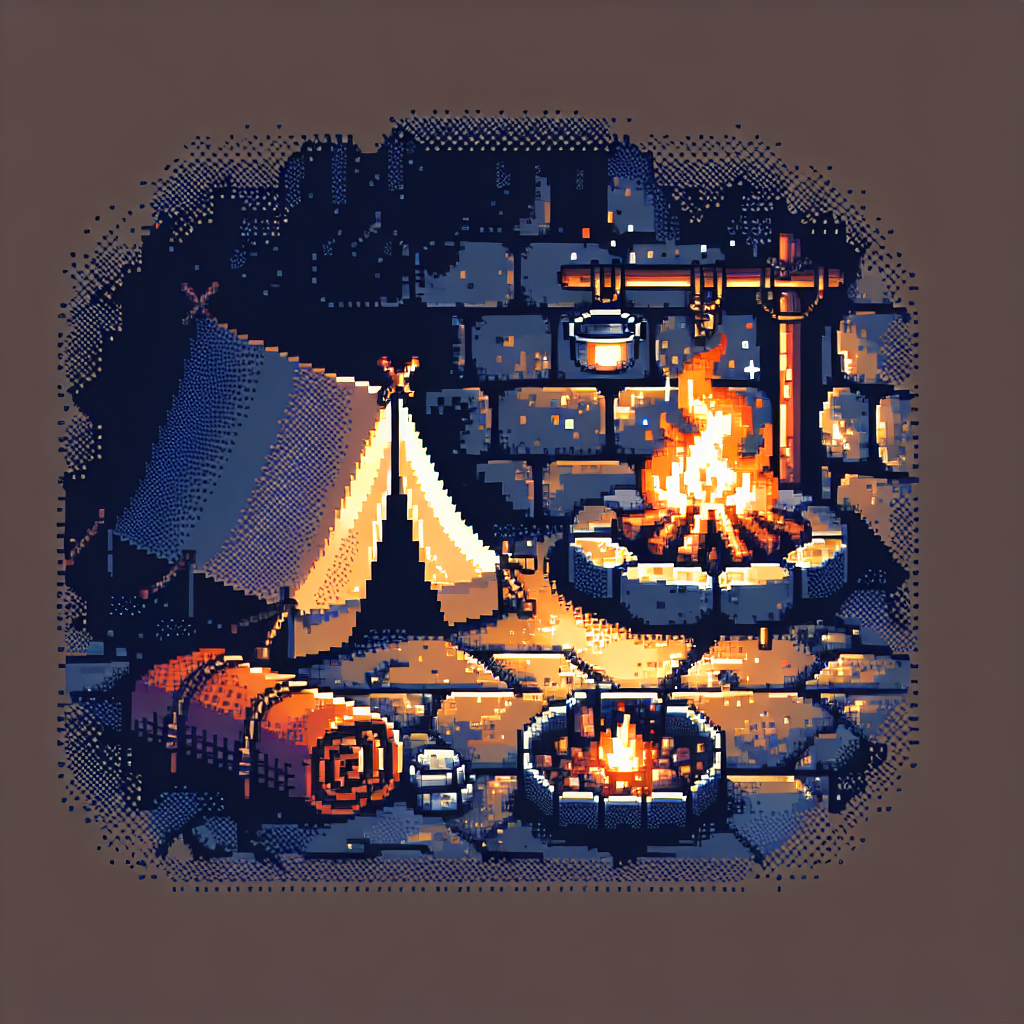
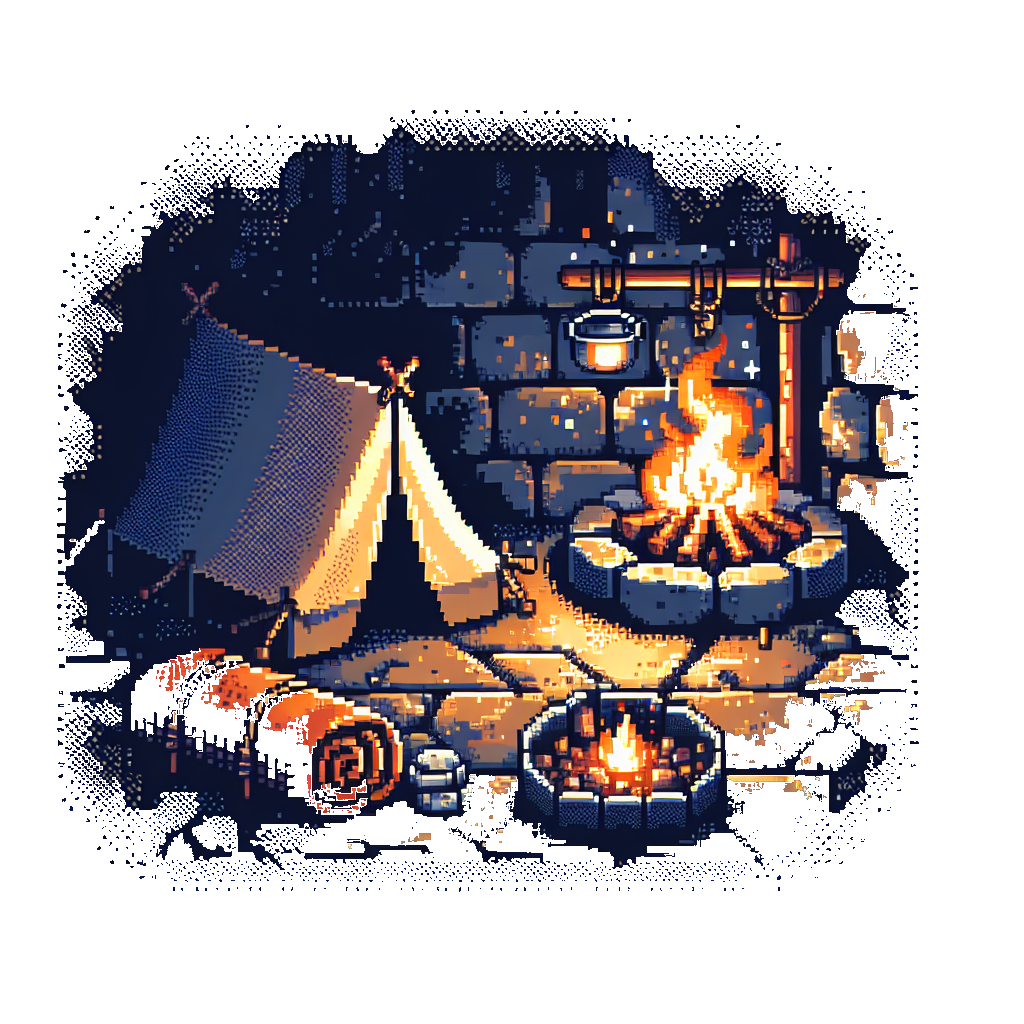
Remove background from card_camp.png — transparent corners
Flood-fill removed brownish-grey background from all 4 corners
(572k pixels) so the camp card art sits cleanly on the NineSlice
panel. Version bump 1.10.7 → 1.10.8.

diff --git a/FrontEnds/dungeon-fisher/src/version.js b/FrontEnds/dungeon-fisher/src/version.js
@@ -2,7 +2,7 @@
 //   MAJOR — large game changes, system overhauls, breaking save changes
 //   MINOR — new features, content additions (fish, scenes, mechanics)
 //   PATCH — bug fixes, UI tweaks, balance tuning
-export const VERSION = '1.10.7';
+export const VERSION = '1.10.8';
 
 // Save format version — bump when save data structure changes.
 // This is separate from the game version because UI/balance changes
